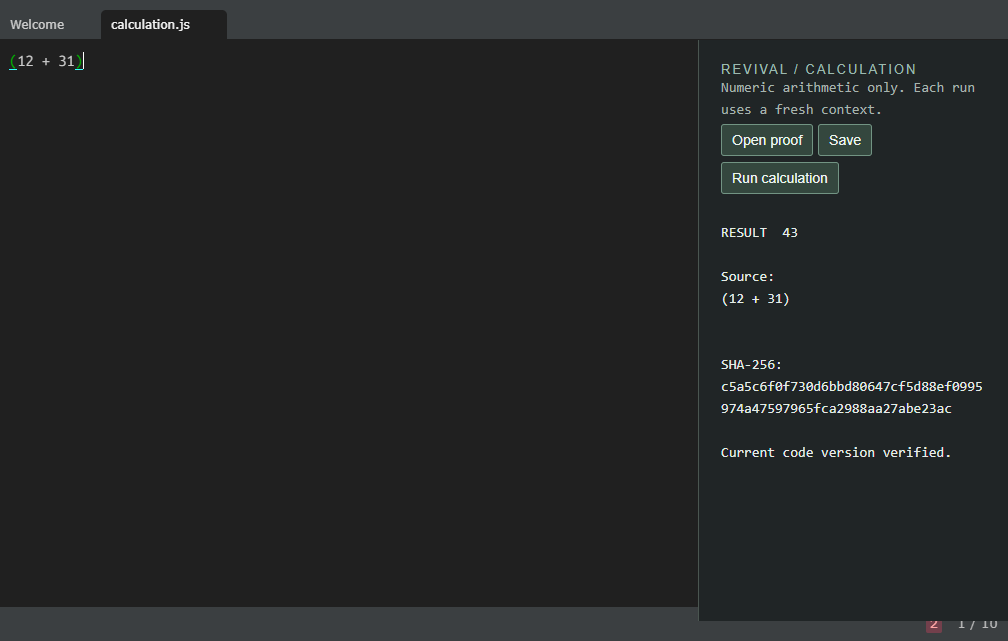
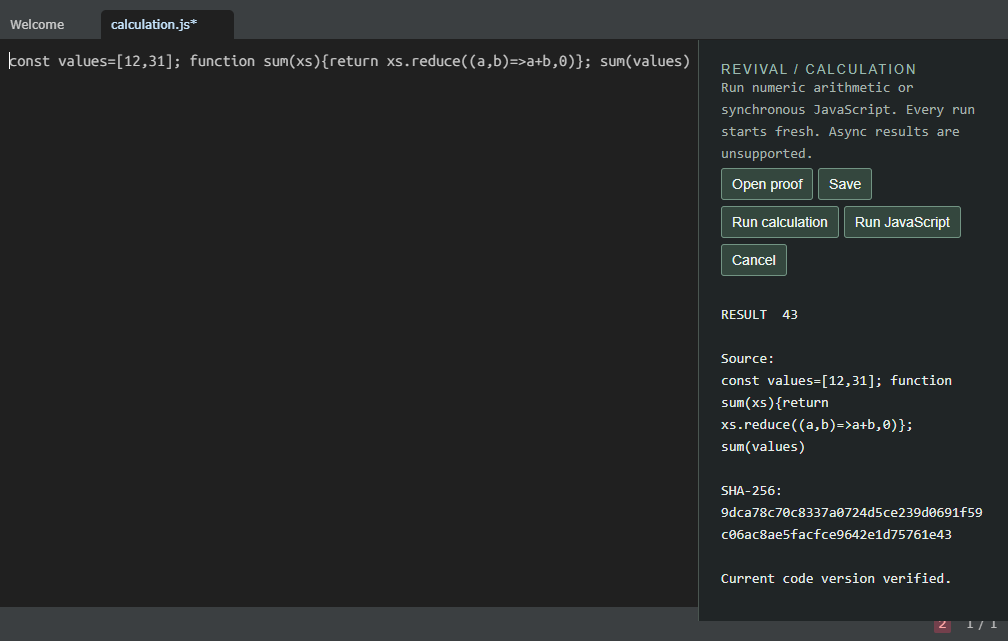
Update workshop with verified disposable JavaScript proof

diff --git a/site/index.html b/site/index.html
@@ -15,8 +15,8 @@
 <section class="hero" aria-labelledby="headline"><div class="hero-copy"><p class="eyebrow"><span aria-hidden="true">✦</span> OLD SOFTWARE. NEW CHANCES.</p><h1 id="headline">Digital archaeology, with fixes people can actually use.</h1><p class="lead">Good ideas deserve another chance. We dig into forgotten code, preserve what made it special, and get a useful piece working again.</p><p class="tagline">No project left for dead.</p><a class="button" href="#workbench">See what we're fixing</a></div><figure class="mascot"><img src="assets/patch-vigilantes-avatar.png" width="1254" height="1254" alt="A cheerful CRT robot mechanic with a wrench, patched screen and coral scarf."><figcaption>EVERY GREAT IDEA DESERVES A PATCH.</figcaption></figure></section>
 <figure class="workshop-art"><img src="assets/patch-vigilantes-banner.png" width="2043" height="770" alt="Three friendly CRT mechanics bring an old computer back to life in a warmly lit repair workshop."><figcaption><span>THE WORKSHOP IS OPEN.</span><span>HISTORY INTACT. TOOLS OUT.</span></figcaption></figure>
 <section id="workbench" class="workbench" aria-labelledby="workbench-title"><div class="section-head"><div><p class="eyebrow">RESTORATION FILE / 001</p><h2 id="workbench-title">On the Workbench</h2></div><p>One project at a time.<br>Proof before promises.</p></div>
-<article class="project"><div class="project-copy"><span class="status">IN PROGRESS · EXPERIMENTAL</span><h3>Light Table</h3><p class="project-deck">An ambitious live-coding editor.<br>A second chance for an original idea.</p><p>Archived in 2022, Light Table connected code to immediate feedback. We're keeping its original ClojureScript foundation and repairing one real workflow first.</p><dl><div><dt>Verified</dt><dd>Original editor launches, opens a file, accepts edits and saves. Restricted JavaScript arithmetic shows 42, then 43 beside the code, tied to exact source hashes.</dd></div><div><dt>Still on the Bench</dt><dd>Language plugins, native menus and modern runtime support. This is a working proof, not a ready release.</dd></div></dl><div class="project-links"><a href="https://github.com/T24085/lighttable-revival">Restoration notes <span class="private">Private staging</span></a><a href="https://github.com/LightTable/LightTable">Original project</a></div></div><figure class="proof"><img src="assets/lighttable-proof.png" width="1008" height="641" alt="Actual restored Light Table editor showing the calculation 12 plus 31, result 43, and its exact source hash."><figcaption>ACTUAL PROOF · ORIGINAL EDITOR · BOUNDED CALCULATION</figcaption></figure></article></section>
+<article class="project"><div class="project-copy"><span class="status">IN PROGRESS · EXPERIMENTAL</span><h3>Light Table</h3><p class="project-deck">An ambitious live-coding editor.<br>A second chance for an original idea.</p><p>Archived in 2022, Light Table connected code to immediate feedback. We're keeping its original ClojureScript foundation and repairing one real workflow first.</p><dl><div><dt>Verified</dt><dd>Original editor launches, opens a file, accepts edits and saves. Synchronous JavaScript statements, functions, objects and arrays now run in fresh isolated contexts. A function sums [12,31] to 43 beside the code, tied to its exact source hash.</dd></div><div><dt>Still on the Bench</dt><dd>Async execution, language plugins, native menus and modern runtime support. Memory monitoring is reactive, not a hard quota. This is an experimental proof, not a secure release.</dd></div></dl><div class="project-links"><a href="https://github.com/T24085/lighttable-revival">Restoration notes <span class="private">Private staging</span></a><a href="https://github.com/LightTable/LightTable">Original project</a></div></div><figure class="proof"><img src="assets/lighttable-proof.png" width="1008" height="641" alt="Actual restored Light Table editor showing a JavaScript function summing an array to 43 and its exact source hash."><figcaption>ACTUAL PROOF · ORIGINAL EDITOR · DISPOSABLE JAVASCRIPT</figcaption></figure></article></section>
 <section id="method" class="method" aria-labelledby="method-title"><div><p class="eyebrow">FIX THE CODE. KEEP THE SOUL.</p><h2 id="method-title">Less Disposable.<br>More Possibility.</h2><p>Software doesn't have to disappear when its first chapter ends. Useful repairs can keep ideas alive without pretending the old problems never existed.</p></div><ol><li><span>01</span><div><h3>Dig Carefully</h3><p>Read the source and reproduce the problem. Preserve the history, the license and the people behind it.</p></div></li><li><span>02</span><div><h3>Make It Work</h3><p>Repair a concrete path. Keep the fix small enough to test and honest enough to inspect.</p></div></li><li><span>03</span><div><h3>Show the Evidence</h3><p>Publish clear limits and reproducible checks. Contribute upstream where practical, with credit intact.</p></div></li></ol></section>
 </main>
-<footer><div><strong>The Patch Vigilantes</strong><p>No project left for dead.</p><p class="credit">Original Light Table by its contributors, Kodowa and Cognitect. <a href="https://github.com/LightTable/LightTable/blob/develop/LICENSE.md">MIT license</a>.</p></div><div class="counter-wrap" id="visit-counter"><span class="counter-label">PAGE VIEWS</span><div id="counter-digits" class="digits" aria-hidden="true"><span>—</span><span>—</span><span>—</span><span>—</span><span>—</span><span>—</span></div><p id="counter-status" role="status">Counter unavailable in local preview.</p><p class="counter-fine">Page loads, not unique people. No cookies or fingerprinting.</p></div></footer>
+<footer><div><strong>The Patch Vigilantes</strong><p>No project left for dead.</p><p class="credit">Original Light Table by its contributors, Kodowa and Cognitect. <a href="https://github.com/LightTable/LightTable/blob/develop/LICENSE.md">MIT license</a>.</p></div><div class="counter-wrap" id="visit-counter"><span class="counter-label">PAGE VIEWS</span><div id="counter-digits" class="digits" aria-hidden="true"><span>—</span><span>—</span><span>—</span><span>—</span><span>—</span><span>—</span></div><p id="counter-status" role="status">Counter unavailable.</p><p class="counter-fine">Page loads, not unique people. No cookies or fingerprinting.</p></div></footer>
 </body></html>

diff --git a/README.md b/README.md
@@ -11,7 +11,7 @@ Digital archaeology, with fixes people can actually use. We want useful software
 
 | Project | Actual Status | Evidence and Gaps |
 | --- | --- | --- |
-| [Light Table revival](https://github.com/T24085/lighttable-revival) | Experimental partial revival; private staging | Original ClojureScript compiled; original editor opens, edits and saves one proof file. Restricted arithmetic returns 42 then 43, tied to exact buffer hashes. Legacy plugins, menus and runtime modernization remain incomplete. |
+| [Light Table revival](https://github.com/T24085/lighttable-revival) | Experimental partial revival; private staging | Original ClojureScript compiled; original editor opens, edits and saves one proof file. Synchronous JavaScript variables, functions, arrays and objects run in disposable sandboxed renderer/worker contexts, showing 43 tied to the exact source hash. Sixteen new language checks and the freshly extracted portable package pass. Async execution, legacy plugins, menus and runtime modernization remain incomplete. Electron 13 is obsolete; memory monitoring is reactive, not a hard OS quota. |
 
 ## How We Restore
 
@@ -21,6 +21,6 @@ One workshop home, one repository per repaired program. Light Table is the first
 
 ## Website
 
-Open `site/index.html` locally. Static HTML/CSS; no paid services, external fonts, package installation or server required. The site uses Agency OS and its Creative Direction, Web Color System, Typography Mastery and QA Polish guidance. Hosting is not enabled; source repositories stay private. A future separately approved static hosting destination can serve the site without publishing unfinished program source.
+Open `site/index.html` locally. Static HTML/CSS; no paid services, external fonts, package installation or server required. The site uses Agency OS and its Creative Direction, Web Color System, Typography Mastery and QA Polish guidance. GitHub Pages is the publication target. A clean site-only gh-pages branch is prepared, but GitHub returned HTTP 422 because the current plan does not support Pages for this private repository. A separate public site-only repository is awaiting approval; this workshop and Light Table remain private. The optional counter has no deployed endpoint and honestly displays unavailable.
 
 [Original Light Table](https://github.com/LightTable/LightTable) · [Original MIT license](https://github.com/LightTable/LightTable/blob/develop/LICENSE.md)
